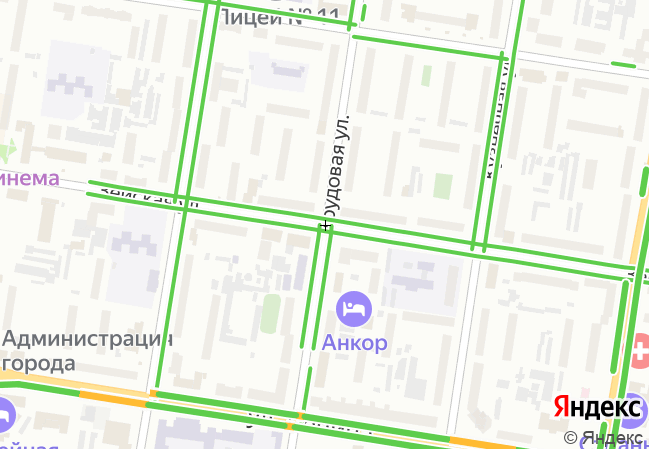
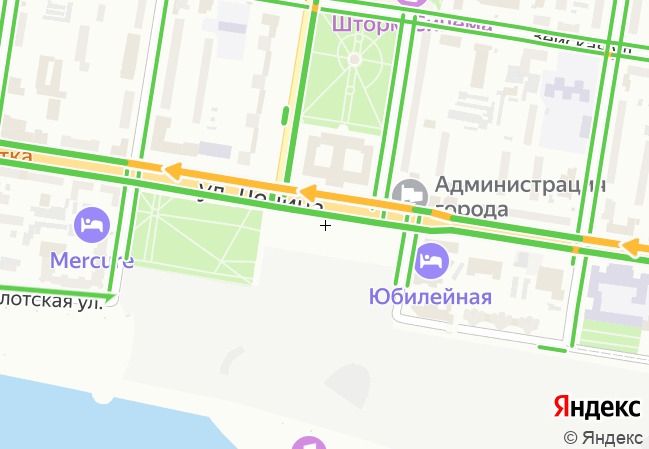
add: change city

diff --git a/UI/UiM.py b/UI/UiM.py
@@ -12,7 +12,6 @@ import os
 import configparser
 
 load_dotenv(find_dotenv())
-CITY = os.getenv('CITY')
 Form, Window = uic.loadUiType("UI/forms/main_form.ui")
 
 class UiC(QtWidgets.QDialog):
@@ -21,10 +20,6 @@ class UiC(QtWidgets.QDialog):
         super(UiC, self).__init__(parent)
         self.filelist = filelist
         self.setWindowTitle("Пример окна PyQt")
-        self.setup_ui()
-        self.initUI()
-
-    def setup_ui(self):
         layout = QVBoxLayout()
         self.list_widget = QListWidget()
         self.list_widget.addItems(self.filelist)
@@ -32,6 +27,7 @@ class UiC(QtWidgets.QDialog):
         self.button = QPushButton("Получить файл")
         layout.addWidget(self.button)
         self.setLayout(layout)
+        self.initUI()
 
     def initUI(self):
         self.setWindowFlags(self.windowFlags() | Qt.WindowMinimizeButtonHint)
@@ -62,8 +58,8 @@ class UiM(QtWidgets.QDialog, Form):
     def show_list_edit_form(self):  # Метод отображения формы редактирования конфигурации
         try:
             filename = self.choice_data('JSON (*.json)')
-            self.listForm = UiL(self)
-            self.listForm.load_data(filename)
+            self.uil = UiL(self)
+            self.uil.load_data(filename)
         except:
             pass
 
@@ -93,11 +89,12 @@ class UiM(QtWidgets.QDialog, Form):
     def show_settings(self):
         config = configparser.ConfigParser()
         config.read('config.ini')
-        city = config['DEFAULT']['CITY']
-        text, ok = QInputDialog().getText(self, "Выбор города", "Название:", QLineEdit.Normal, city, Qt.WindowCloseButtonHint)
+        city = config['DEFAULT']['city']
+        text, ok = QInputDialog().getText(self, "Выбор города", "Название:",
+                                          QLineEdit.Normal, city, Qt.WindowCloseButtonHint)
         if ok and text:
             config = configparser.ConfigParser()
-            config['DEFAULT'] = {'CITY': text}
+            config['DEFAULT'] = {'city': text}
             with open('config.ini', 'w') as configfile:
                 config.write(configfile)
 

diff --git a/UI/UiA.py b/UI/UiA.py
@@ -1,7 +1,9 @@
+import configparser
+
 from PyQt5 import uic, QtWidgets, QtCore
 from UI.forms.add_Form import Ui_addForm
 from PyQt5.QtGui import QPixmap
-from API.yandex import get_map
+from API.yandex import *
 from PyQt5.QtCore import *
 import json
 
@@ -98,6 +100,9 @@ class UiA(QtWidgets.QDialog, Form):
     def showEvent(self, event):
         self.new_longitude = self.uia.longitudeEdit.text()
         self.new_latitude = self.uia.latitudeEdit.text()
+        config = configparser.ConfigParser()
+        config.read('config.ini')
+        self.new_longitude, self.new_latitude = get_city(config['DEFAULT']['city'])
         self.load_map()
 
     def showEdit(self, area=None, filename="data/result/data.json"):

diff --git a/API/yandex.py b/API/yandex.py
@@ -1,3 +1,5 @@
+import json
+
 import requests
 import shutil
 from PIL import Image, ImageDraw
@@ -24,10 +26,9 @@ def get_city(city):
     try:
         link = f'https://geocode-maps.yandex.ru/1.x/?apikey={TOKEN}&geocode={city}&format=json'
         response = requests.get(link)
-        print(response.content)
-
+        return response.json()['response']['GeoObjectCollection']['featureMember'][0]['GeoObject']['Point']['pos'].split()
     except:
-        print(print("Ошибка запроса"))
+        print("Ошибка запроса")
 
 
 def draw_dot(name):
